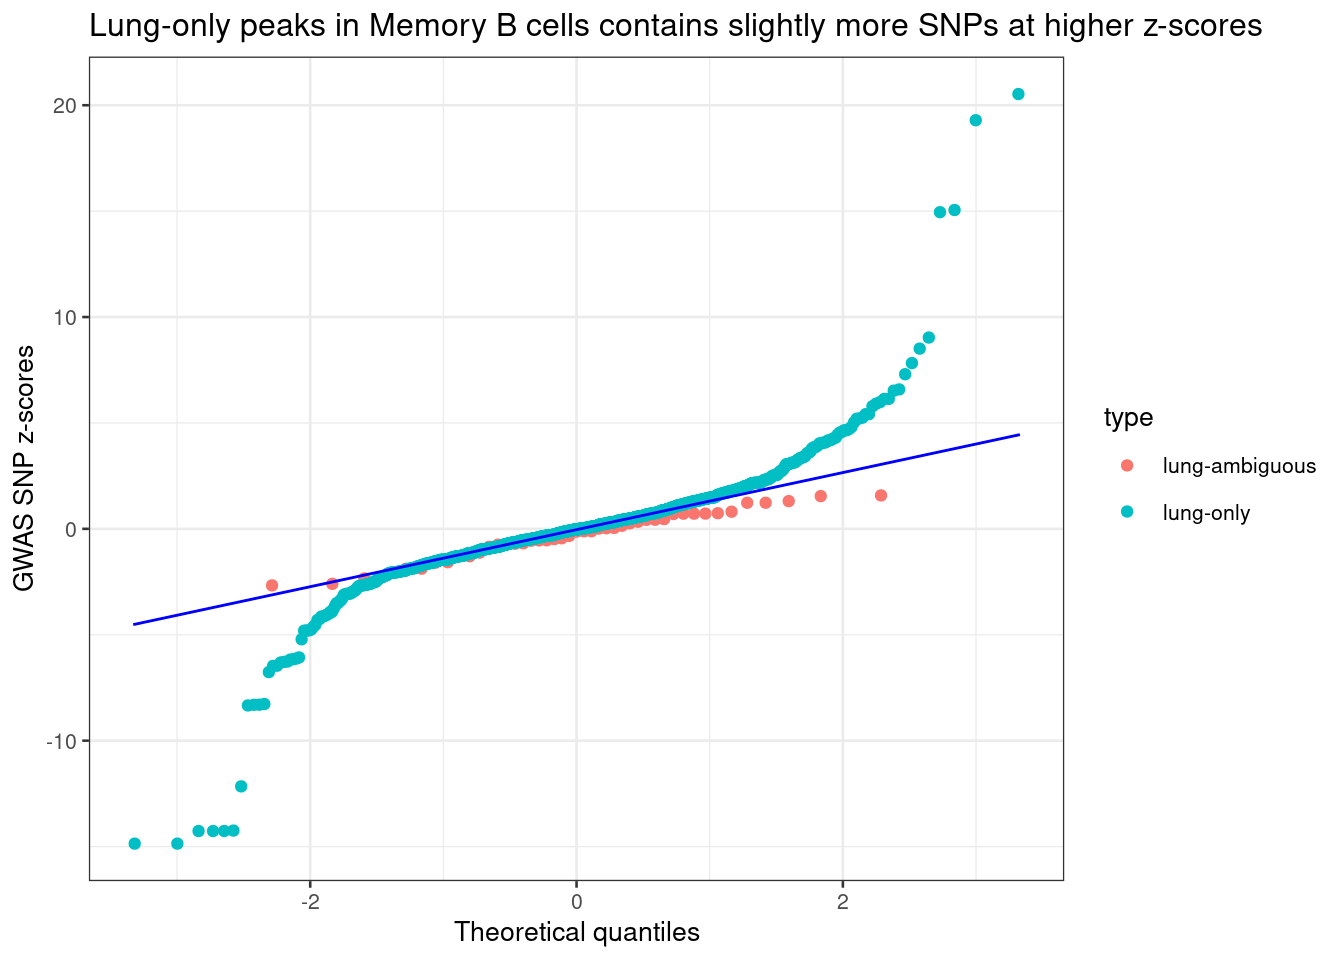
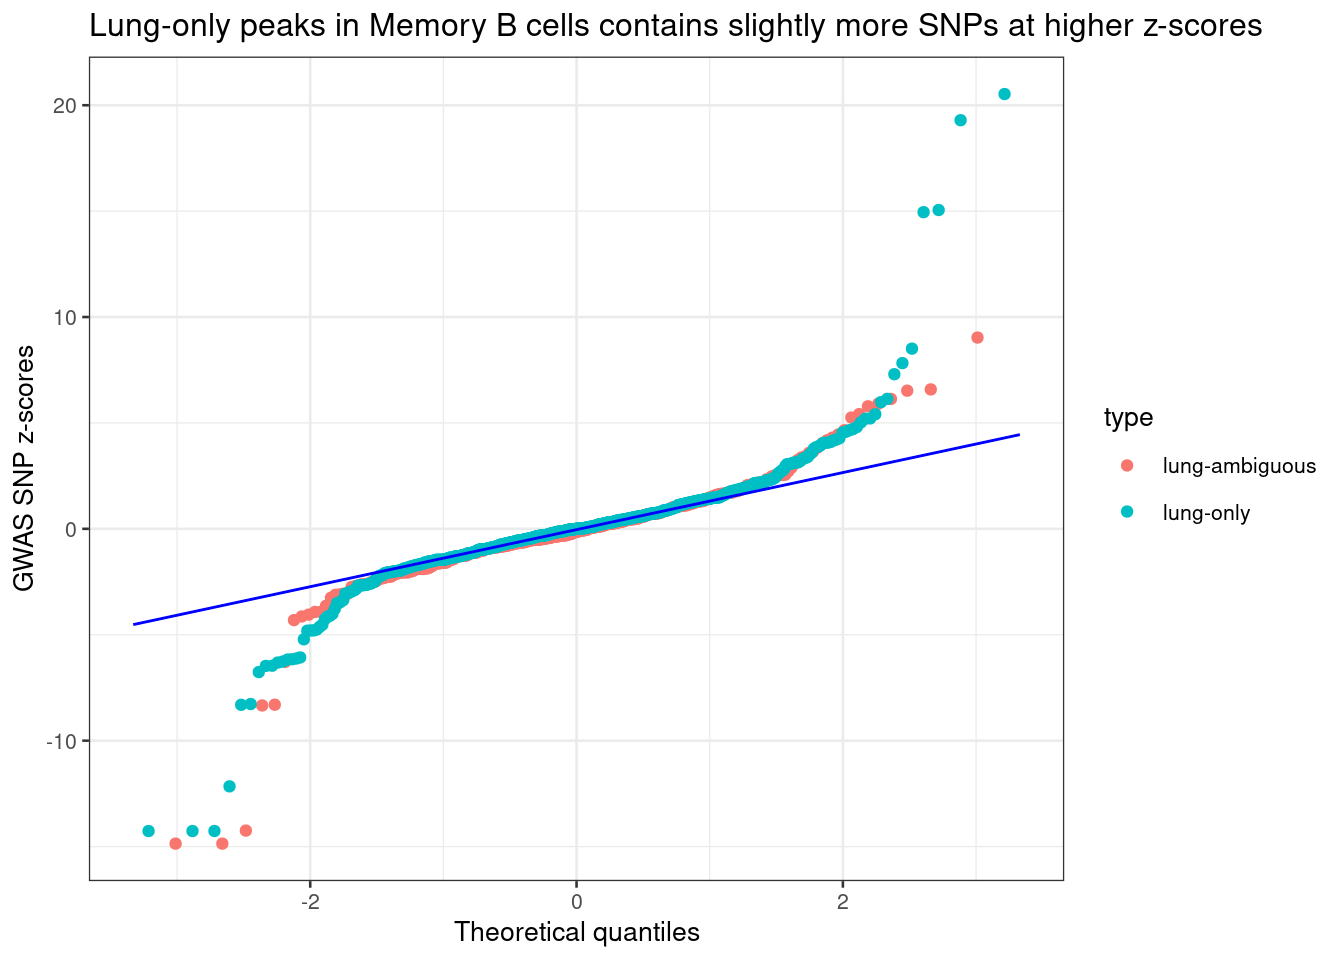
Build site.

diff --git a/docs/lung_specific_peaks_vs_DA_analyses.html b/docs/lung_specific_peaks_vs_DA_analyses.html
@@ -529,15 +529,15 @@ project makes it easier to run your code on other machines.</p>
 <div class="panel panel-default">
 <div class="panel-heading">
 <p class="panel-title">
-<a data-toggle="collapse" data-parent="#workflowr-checks" href="#strongRepositoryversionstrongahrefhttpsgithubcomj3gulunglymphscMultiomicstree1f6073bdde7eb2a76f327922922aa2b61070ed5atargetblank1f6073ba">
+<a data-toggle="collapse" data-parent="#workflowr-checks" href="#strongRepositoryversionstrongahrefhttpsgithubcomj3gulunglymphscMultiomicstree4ae1c3f531b86e1e1670ae8c23b22571475ac0c0targetblank4ae1c3fa">
 <span class="glyphicon glyphicon-ok text-success"
 aria-hidden="true"></span> <strong>Repository version:</strong>
-<a href="https://github.com/j3gu/lung_lymph_scMultiomics/tree/1f6073bdde7eb2a76f327922922aa2b61070ed5a" target="_blank">1f6073b</a>
+<a href="https://github.com/j3gu/lung_lymph_scMultiomics/tree/4ae1c3f531b86e1e1670ae8c23b22571475ac0c0" target="_blank">4ae1c3f</a>
 </a>
 </p>
 </div>
 <div
[2 lines of base64/hex data omitted]
 class="panel-collapse collapse">
 <div class="panel-body">
 <p>
@@ -547,7 +547,7 @@ reproducibility.
 </p>
 <p>
 The results in this page were generated with repository version
-<a href="https://github.com/j3gu/lung_lymph_scMultiomics/tree/1f6073bdde7eb2a76f327922922aa2b61070ed5a" target="_blank">1f6073b</a>.
+<a href="https://github.com/j3gu/lung_lymph_scMultiomics/tree/4ae1c3f531b86e1e1670ae8c23b22571475ac0c0" target="_blank">4ae1c3f</a>.
 See the <em>Past versions</em> tab to see a history of the changes made
 to the R Markdown and HTML files.
 </p>
@@ -703,6 +703,40 @@ Message
 </tr>
 </thead>
 <tbody>
+<tr>
+<td>
+Rmd
+</td>
+<td>
+<a href="https://github.com/j3gu/lung_lymph_scMultiomics/blob/4ae1c3f531b86e1e1670ae8c23b22571475ac0c0/analysis/lung_specific_peaks_vs_DA_analyses.Rmd" target="_blank">4ae1c3f</a>
+</td>
+<td>
+Jing Gu
+</td>
+<td>
+2025-05-08
+</td>
+<td>
+updated QQ plot
+</td>
+</tr>
+<tr>
+<td>
+html
+</td>
+<td>
+<a href="https://rawcdn.githack.com/j3gu/lung_lymph_scMultiomics/d50372b5014af6f10654715c39a53e82a4581852/docs/lung_specific_peaks_vs_DA_analyses.html" target="_blank">d50372b</a>
+</td>
+<td>
+Jing Gu
+</td>
+<td>
+2025-05-08
+</td>
+<td>
+Build site.
+</td>
+</tr>
 <tr>
 <td>
 Rmd
@@ -1394,6 +1428,17 @@ Date
 </tr>
 </thead>
 <tbody>
+<tr>
+<td>
+<a href="https://github.com/j3gu/lung_lymph_scMultiomics/blob/d50372b5014af6f10654715c39a53e82a4581852/docs/figure/lung_specific_peaks_vs_DA_analyses.Rmd/unnamed-chunk-12-2.png" target="_blank">d50372b</a>
+</td>
+<td>
+Jing Gu
+</td>
+<td>
+2025-05-08
+</td>
+</tr>
 <tr>
 <td>
 <a href="https://github.com/j3gu/lung_lymph_scMultiomics/blob/9daf69a1994681007567767a359e99afdb30366e/docs/figure/lung_specific_peaks_vs_DA_analyses.Rmd/unnamed-chunk-12-2.png" target="_blank">9daf69a</a>
